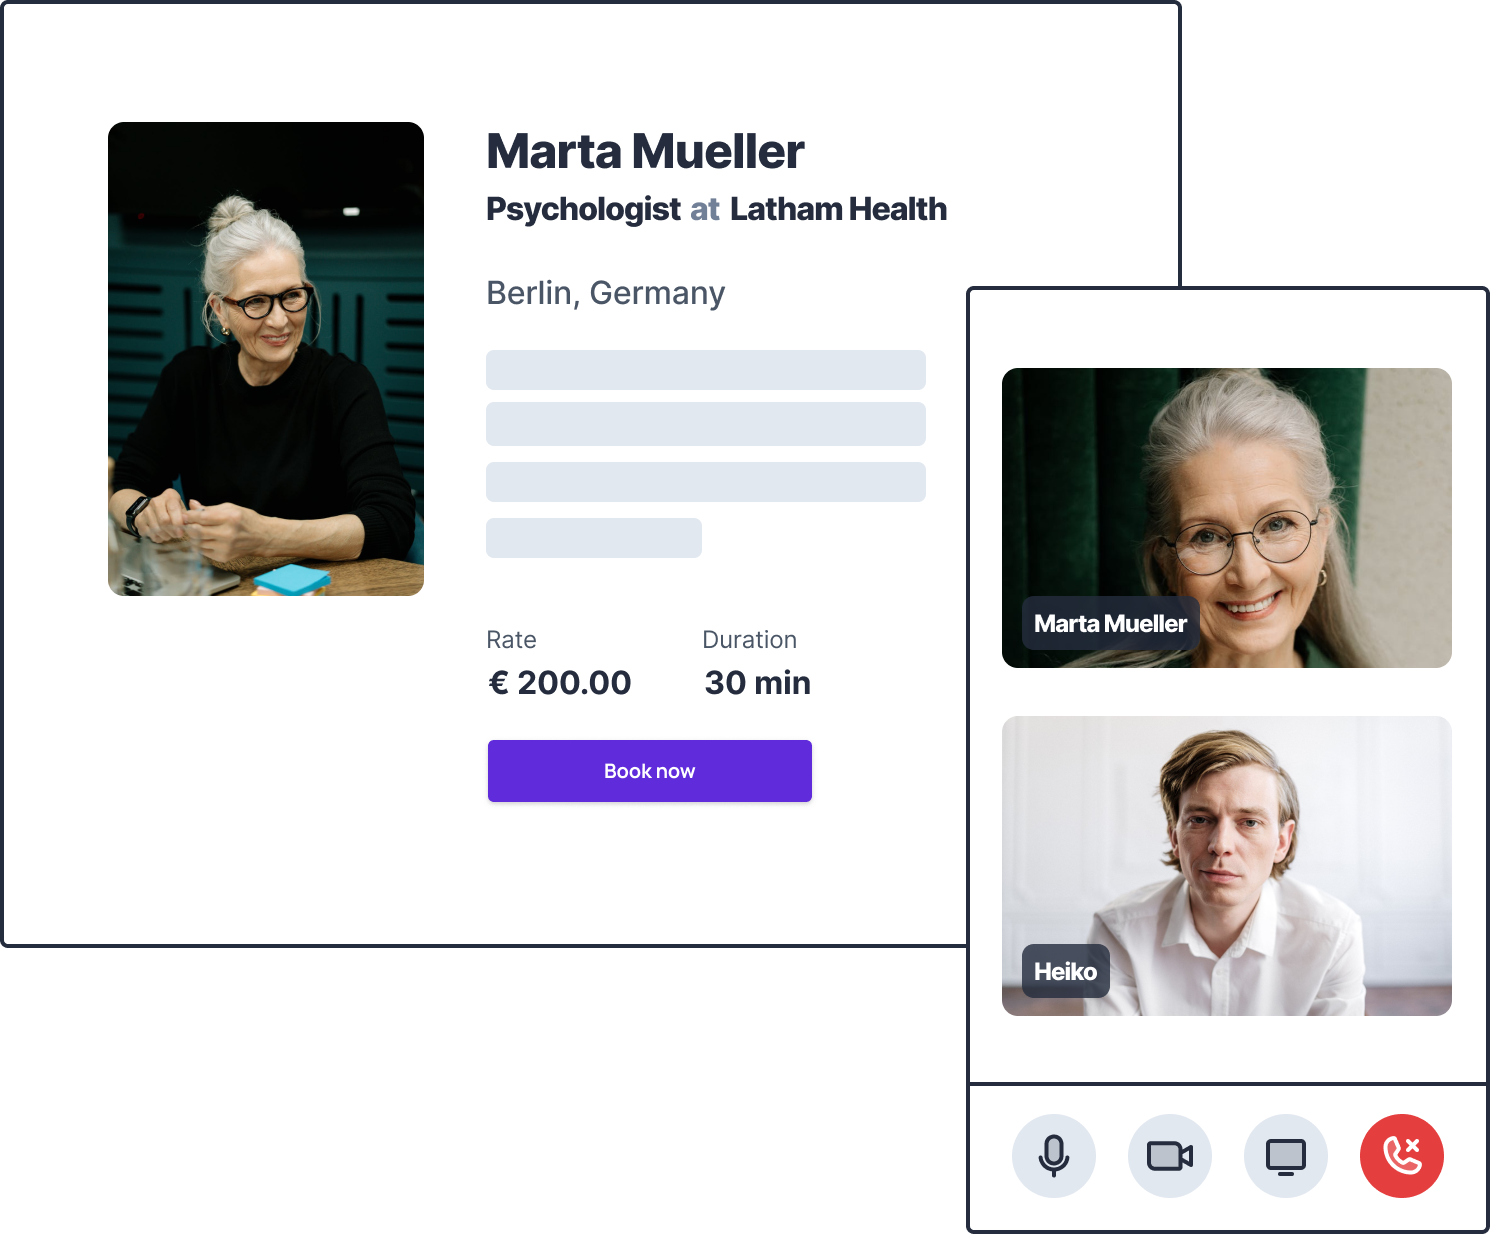
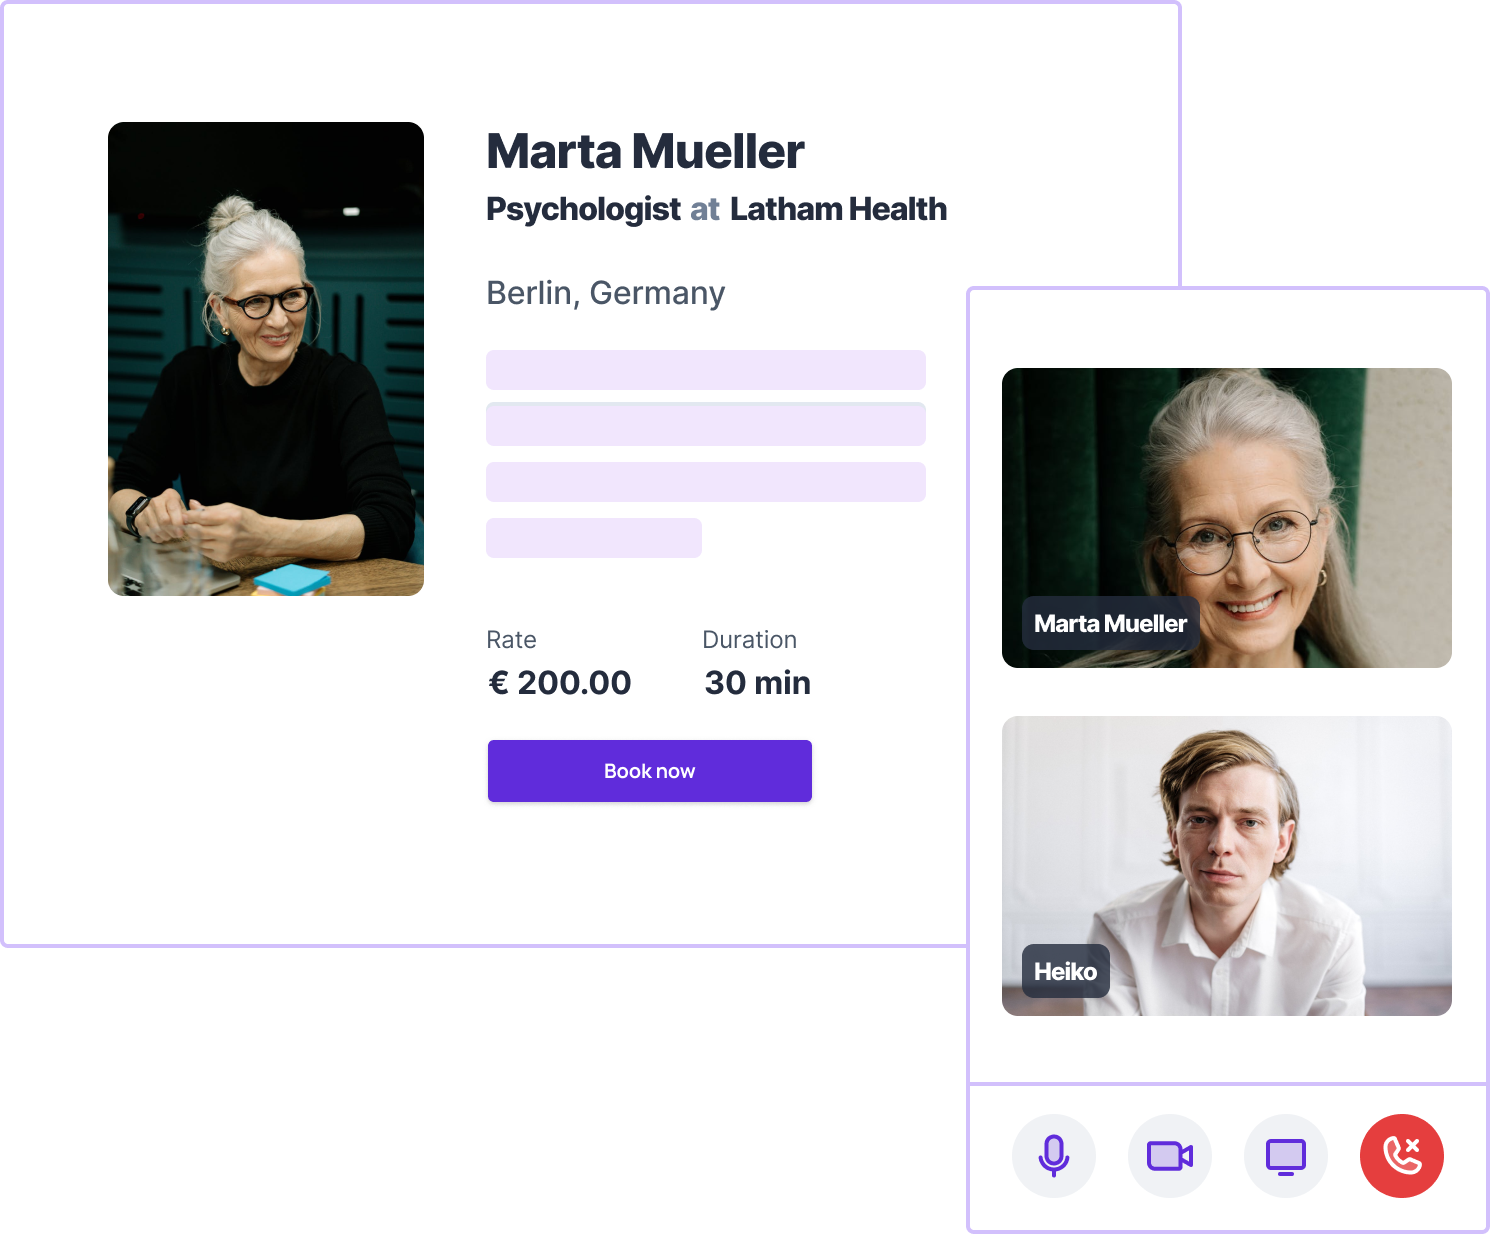
Updates

diff --git a/docs/index.html b/docs/index.html
@@ -1,5 +1,5 @@
 <!doctype html>
-<html lang="lv">
+<html lang="en">
 
 <head>
 
@@ -11,20 +11,20 @@
     <meta name=" theme-color" content="#602CDB">
 
     <title>Tilli</title>
-    <meta name="title" content="Sasniedzama veselības aprūpe visiem || Tilli">
-    <meta name="description" content="Saņem ārsta konsultāciju esot mājās, darbā vai ceļā. Veselības aprūpe, kas vienmēr ir Tev līdzās - tavā telefonā.">
+    <meta name="title" content="Tilli  •  Set up paid video calls or live streams with ease">
+    <meta name="description" content="Add your price, availability, and share your link. That’s all you need to setup paid video call with the Tilli app.">
 
     <meta property="og:type" content="website">
-    <meta property="og:url" content="https://tilli.lv">
-    <meta property="og:title" content="Sasniedzama veselības aprūpe visiem || Tilli">
-    <meta property="og:description" content="Saņem ārsta konsultāciju esot mājās, darbā vai ceļā. Veselības aprūpe, kas vienmēr ir Tev līdzās - tavā telefonā.">
-    <meta property="og:image" content="https://tilli.lv/assets/social.png">
+    <meta property="og:url" content="https://tilli.app">
+    <meta property="og:title" content="Tilli  •  Set up paid video calls or live streams with ease">
+    <meta property="og:description" content="Add your price, availability, and share your link. That’s all you need to setup paid video call with the Tilli app.">
+    <meta property="og:image" content="https://tilli.app/assets/preview.jpeg">
 
     <meta property="twitter:card" content="summary_large_image">
-    <meta property="twitter:url" content="https://tilli.lv/">
-    <meta property="twitter:title" content="Sasniedzama veselības aprūpe visiem || Tilli">
-    <meta property="twitter:description" content="Saņem ārsta konsultāciju esot mājās, darbā vai ceļā. Veselības aprūpe, kas vienmēr ir Tev līdzās - tavā telefonā.">
-    <meta property="twitter:image" content="https://tilli.lv/assets/social.png">
+    <meta property="twitter:url" content="https://tilli.app">
+    <meta property="twitter:title" content="Tilli  •  Set up paid video calls or live streams with ease">
+    <meta property="twitter:description" content="Add your price, availability, and share your link. That’s all you need to setup paid video call with the Tilli app.">
+    <meta property="twitter:image" content="https://tilli.app/assets/preview.jpeg">
 
     <link href="raster2.css" rel="stylesheet">
     <link href="style.css" rel="stylesheet">
@@ -32,32 +32,39 @@
 
 <body>
     <r-grid columns=12 columns-s=4 class="top">
-        <r-cell span=4 span-s=row>
-            <img src="assets/logo.svg" class="logo">
+        <r-cell span=4 span-s=1-2>
+            <img src="assets/logo.svg" class="logo" alt="logo">
+        </r-cell>
+        <r-cell span=8 span-s=3-4 class="right">
+            <button class="secondary"><a href="login.html">Log in</a></button>
+        </r-cell>
+        <r-cell span=6 span-s=row>
             <h1>Set up paid video calls or livestreams with ease</h1>
             <p>Tilli is a powerful tool for busineses and individuals to schedule paid video calls for free.</p>
-            <button>Request invite</button>
+            <button class="primary">Request invite</button>
         </r-cell>
-        <r-cell span=8 span-s=row></r-cell>
+        <r-cell span=6 span-s=row>
+            <img src="assets/top-right.jpeg" class="top-img" loading="lazy" alt="video call">
+        </r-cell>
     </r-grid>
     <!-- How it works -->
     <r-grid columns=12 columns-s=4 class="how">
         <hr>
         <r-cell span=row>
-            <h2>Simple setup in 10 minutes or less ↘</h2>
+            <h2>Simple setup in 6 minutes or less ↘</h2>
         </r-cell>
         <r-cell span=1-4 span-s=row>
-            <img src="assets/icons/Calendar.svg" loading="lazy">
+            <img src="assets/icons/Calendar.svg" loading="lazy" alt="calendar">
             <h4>Pick up time</h4>
             <p>Setup your availability via Google or Outlook calendar. Tilli app will do the video call scheduling & rescheduling work for you.</p>
         </r-cell>
         <r-cell span=5-8 span-s=row>
-            <img src="assets/icons/CreditCard.svg" loading="lazy">
+            <img src="assets/icons/CreditCard.svg" loading="lazy" alt="credit card">
             <h4>Get paid with ease</h4>
             <p>Tilli collects payments upfront for you. Including no-show protection and automatic refunds. Setup your hourly or fixed rate. Get paid right after the video call.</p>
         </r-cell>
         <r-cell span=9-12 span-s=row>
-            <img src="assets/icons/Browsers.svg" loading="lazy">
+            <img src="assets/icons/Browsers.svg" loading="lazy" alt="browser">
             <h4>Meet in broswer</h4>
             <p>Join in the browser with a single click. No extra overhead or apps to install. Works on any device.</p>
         </r-cell>
@@ -70,37 +77,37 @@
         </r-cell>
         <r-cell span=7 span-s=row></r-cell>
         <r-cell span=1-4 span-s=row>
-            <img src="assets/icons/NumberCircleZero.svg" loading="lazy">
+            <img src="assets/icons/NumberCircleZero.svg" loading="lazy" alt="no hidden costs">
             <h4>No hidden costs</h4>
             <p>We take a small fee when you get paid. No monthly charges, no service fees. Pay only when you get paid.</p>
         </r-cell>
         <r-cell span=5-8 span-s=row>
-            <img src="assets/icons/VideoCamera.svg" loading="lazy">
+            <img src="assets/icons/VideoCamera.svg" loading="lazy" alt="recording">
             <h4>Recordings</h4>
             <p>Instantly download high quality audio or video recordings after every call.</p>
         </r-cell>
         <r-cell span=9-12 span-s=row>
-            <img src="assets/icons/UserCirclePlus.svg" loading="lazy">
+            <img src="assets/icons/UserCirclePlus.svg" loading="lazy" alt="team">
             <h4>Team support</h4>
             <p>Add mutiple team members to your account as admin. Arrange video calls via personal or team-wide scheduling pages.</p>
         </r-cell>
         <r-cell span=1-4 span-s=row>
-            <img src="assets/icons/Users.svg" loading="lazy">
+            <img src="assets/icons/Users.svg" loading="lazy" alt="mutiple users">
             <h4>Multiple invitees</h4>
             <p>Host group calls with multiple participants for trainings, webinars, or more. </p>
         </r-cell>
         <r-cell span=5-8 span-s=row>
-            <img src="assets/icons/GlobeHemisphereEast.svg" loading="lazy">
+            <img src="assets/icons/GlobeHemisphereEast.svg" loading="lazy" alt="timezone">
             <h4>No timezone worries</h4>
             <p>We automatically detect and convert the timezones so that it’s a seamless experience for all participants.</p>
         </r-cell>
         <r-cell span=9-12 span-s=row>
-            <img src="assets/icons/LinkSimple.svg" loading="lazy">
+            <img src="assets/icons/LinkSimple.svg" loading="lazy" alt="link">
             <h4>Share instantly</h4>
             <p>Share your links on social media or embed it in websites for a simple customer experience!</p>
         </r-cell>
         <r-cell span=1-4 span-s=row>
-            <img src="assets/icons/Alarm.svg" loading="lazy">
+            <img src="assets/icons/Alarm.svg" loading="lazy" alt="alarm">
             <h4>Notifications</h4>
             <p>We will remind you and the invitee about the video call. Tilli app will send confirmation and reminder emails and texts to improve no‑show rates</p>
         </r-cell>
@@ -110,10 +117,10 @@
         <r-cell span=1 span-s=row>
             <h2>Start earning money with Tilli ↙</h2>
             <p>Request an invite for closed BETA</p>
-            <button>Request invite</button>
+            <button class="primary">Request invite</button>
         </r-cell>
         <r-cell span=2.. span-s=row>
-            <img src="assets/Bottom Image.png" width="720" loading="lazy">
+            <img src="assets/Bottom Image.png" width="720" loading="lazy" alt="meeting online">
         </r-cell>
         <r-cell span=row>
             © 2021 Tilli App Ltd • <a href="">Get in touch</a>

diff --git a/docs/login.html b/docs/login.html
@@ -1,0 +1,49 @@
+<!doctype html>
+<html lang="en">
+
+<head>
+
+    <meta charset="utf-8">
+    <meta name="viewport" content="width=device-width, initial-scale=1, shrink-to-fit=no">
+
+    <link rel="icon" sizes="192x192" href="assets/icon.png">
+
+    <meta name=" theme-color" content="#602CDB">
+
+    <title>Tilli</title>
+    <meta name="title" content="Tilli  •  Set up paid video calls or live streams with ease">
+    <meta name="description" content="Add your price, availability, and share your link. That’s all you need to setup paid video call with the Tilli app.">
+
+    <meta property="og:type" content="website">
+    <meta property="og:url" content="https://tilli.app">
+    <meta property="og:title" content="Tilli  •  Set up paid video calls or live streams with ease">
+    <meta property="og:description" content="Add your price, availability, and share your link. That’s all you need to setup paid video call with the Tilli app.">
+    <meta property="og:image" content="https://tilli.app/assets/preview.jpeg">
+
+    <meta property="twitter:card" content="summary_large_image">
+    <meta property="twitter:url" content="https://tilli.app">
+    <meta property="twitter:title" content="Tilli  •  Set up paid video calls or live streams with ease">
+    <meta property="twitter:description" content="Add your price, availability, and share your link. That’s all you need to setup paid video call with the Tilli app.">
+    <meta property="twitter:image" content="https://tilli.app/assets/preview.jpeg">
+
+    <link href="raster2.css" rel="stylesheet">
+    <link href="style.css" rel="stylesheet">
+</head>
+
+<r-grid columns=12 columns-s=4 class="what">
+    <r-cell span=1 span-s=row></r-cell>
+    <r-cell span=4 span-s=row>
+        <img src="assets/logo.svg" class="logo" alt="logo">
+        <h2>Log in to your account</h2>
+        <form>
+            <label for="fname">Email address</label>
+            <input type="email">
+            <button class="primary">Log in</button>
+        </form>
+        <p>Don't have an account yet? Request invite</p>
+    </r-cell>
+    <r-cell span=1 span-s=row>
+    </r-cell>
+    <r-cell span=6 span-s=row>
+    </r-cell>
+</r-grid>

diff --git a/docs/style.css b/docs/style.css
@@ -21,13 +21,41 @@ button {
     min-width: 160px;
     border-radius: 8px;
     padding: 1em 2em;
+}
+
+.primary {
     background-color: var(--purple);
     border: none;
     color: var(--white);
+    font-weight: bold;
+}
+
+.secondary {
+    background-color: var(--lpurple);
+    border: none;
+    color: var(--purple);
+    font-weight: bold;
+}
+
+input[type=email] {
+    width: 100%;
+    padding: calc(var(--space) * 2);
+    margin: var(--space) 0;
+    box-sizing: border-box;
+    box-shadow: none;
+}
+
+a,
+a:hover {
+    color: var(--purple);
 }
 
 .logo {
     padding-bottom: calc(var(--space) * 5);
+}
+
+.right {
+    justify-content: end;
 }
 
 .top p,
@@ -36,13 +64,22 @@ button {
     line-height: 140%;
 }
 
+.top-img {
+    border-radius: 8px;
+    width: auto;
+}
+
+.what {
+    align-items: center;
+}
+
 .how {
     padding-top: calc(var(--space) * 10);
     padding-bottom: calc(var(--space) * 10);
 }
 
 hr {
-    background-color: var(--grey);
+    background-color: var(--lpurple);
     height: calc(var(--space) / 4);
 }
 
